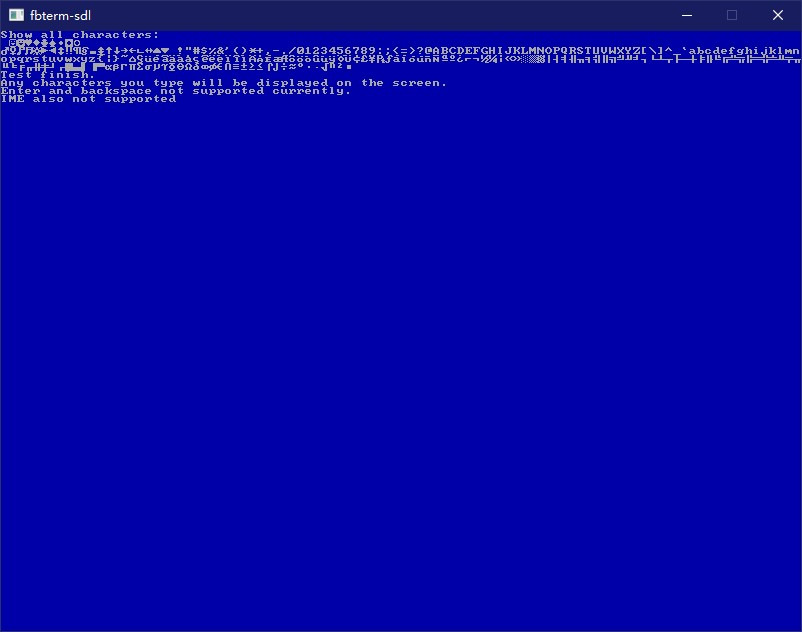
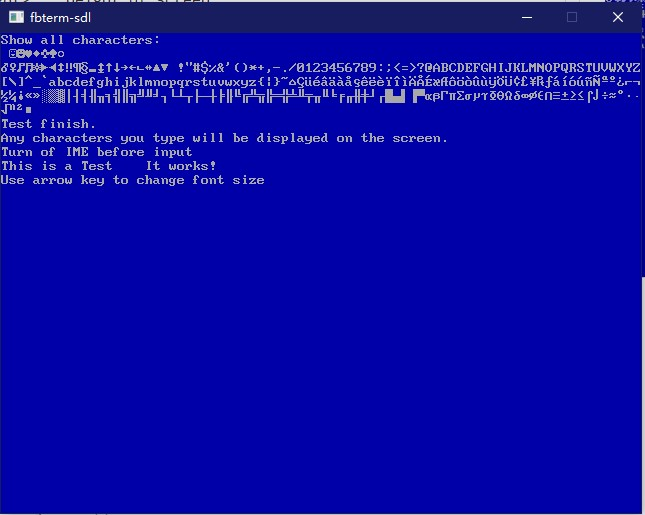
Support change font size; Support backspace

Changed region(s): [[0.0, 0.0, 1.0, 1.0]]

diff --git a/src/lib.rs b/src/lib.rs
@@ -19,8 +19,8 @@ pub struct Fbterm<'a, T: Pixel> {
 }
 
 impl<'a, T: Pixel> Fbterm<'a, T> {
-    pub fn new(framebuffer: Framebuffer<'a, T>, font: Fonts) -> Fbterm<'a, T> {
-        let font = Font::new(font);
+    pub fn new(framebuffer: Framebuffer<'a, T>, font_size: Fonts) -> Fbterm<'a, T> {
+        let font = Font::new(font_size);
         let height = framebuffer.height() / font.height();
         let width = framebuffer.width() / font.width();
         Fbterm {
@@ -45,6 +45,20 @@ impl<'a, T: Pixel> Fbterm<'a, T> {
                 self.x = 0;
                 self.y += 1;
             }
+            0x08 => {
+                if self.x > 0 {
+                    self.x -= 1;
+                    self.framebuffer.draw_rect(
+                        Rect::new(
+                            self.x * self.font.width(),
+                            self.y * self.font.height(),
+                            self.font.width(),
+                            self.font.height(),
+                        ),
+                        self.framebuffer.get_background(),
+                    )
+                }
+            }
             _ => {
                 let bitmap = self.font.char(c);
                 self.draw_font(bitmap);
@@ -65,6 +79,17 @@ impl<'a, T: Pixel> Fbterm<'a, T> {
         for c in s.bytes() {
             self.putc(c)
         }
+    }
+
+    pub fn get_font_size(&self) -> Fonts {
+        self.font.get_font_size()
+    }
+
+    pub fn set_font_size(&mut self, font: Fonts) {
+        self.font = Font::new(font);
+        self.height = self.framebuffer.height() / self.font.height();
+        self.width = self.framebuffer.width() / self.font.width();
+        self.clear();
     }
 
     fn draw_font(&mut self, bitmap: &'a [u8]) {

diff --git a/fbterm-sdl/main.rs b/fbterm-sdl/main.rs
@@ -84,8 +84,7 @@ fn main() {
         r"
 Test finish.
 Any characters you type will be displayed on the screen.
-Enter and backspace not supported currently.
-IME also not supported
+Turn of IME before input
 ",
     );
     texture.update(None, &frame_buffer, 4 * width).unwrap();
@@ -106,6 +105,27 @@ IME also not supported
                     canvas.clear();
                     canvas.copy(&texture, None, None).unwrap();
                     canvas.present();
+                }
+                Event::KeyDown {
+                    keycode: Some(key), ..
+                } => {
+                    match key {
+                        Keycode::Left => fbterm.set_font_size(Fonts::VGA8x8),
+                        Keycode::Down => fbterm.set_font_size(Fonts::VGA8x14),
+                        Keycode::Right => fbterm.set_font_size(Fonts::VGA8x16),
+                        Keycode::Backspace => fbterm.putc(0x08),
+                        Keycode::KpEnter | Keycode::Return => fbterm.putc(b'\n'),
+                        _ => {}
+                    }
+                    match key {
+                        Keycode::Left | Keycode::Down | Keycode::Right | Keycode::Backspace => {
+                            texture.update(None, &frame_buffer, 4 * width).unwrap();
+                            canvas.clear();
+                            canvas.copy(&texture, None, None).unwrap();
+                            canvas.present();
+                        }
+                        _ => {}
+                    }
                 }
                 _ => {}
             }

diff --git a/src/font.rs b/src/font.rs
@@ -1,6 +1,7 @@
 pub struct Font<'a> {
     buffer: &'a [u8],
     height: usize,
+    size: Fonts,
 }
 
 impl<'a> Font<'a> {
@@ -9,14 +10,17 @@ impl<'a> Font<'a> {
             Fonts::VGA8x8 => Font {
                 buffer: &VGAFONT8,
                 height: 8,
+                size: font,
             },
             Fonts::VGA8x14 => Font {
                 buffer: &VGAFONT14,
                 height: 14,
+                size: font,
             },
             Fonts::VGA8x16 => Font {
                 buffer: &VGAFONT16,
                 height: 16,
+                size: font,
             },
         }
     }
@@ -30,8 +34,12 @@ impl<'a> Font<'a> {
     pub fn height(&self) -> usize {
         self.height
     }
+    pub fn get_font_size(&self) -> Fonts {
+        self.size
+    }
 }
 
+#[derive(Clone, Copy)]
 pub enum Fonts {
     VGA8x8,
     VGA8x14,

diff --git a/src/fb.rs b/src/fb.rs
@@ -109,6 +109,10 @@ impl<'a, T: Pixel> Framebuffer<'a, T> {
     pub fn height(&self) -> usize {
         self.height
     }
+
+    pub fn get_base(&self)->*mut u8{
+        self.base
+    }
 }
 
 #[derive(Copy, Clone)]

diff --git a/README.md b/README.md
@@ -12,6 +12,8 @@ Build for no_std environment,such as operating system(without vga text mode) and
 
 SDL:
 
+Input characters and show them in SDL window.
+
 ```txt
 Fbterm test on SDL2
 
@@ -30,7 +32,7 @@ OPTIONS:
 
 ![sdl2](./doc/sdl2.jpg)
 
-[My OS](https://github.com/12101111/os) 
+[My OS](https://github.com/12101111/os)
 
 After exiting UEFI boot service, program can't use Simple Text Output Protocal, but can use existing UEFI framebuffer.My OS use this crate to print texts.
 
@@ -44,8 +46,7 @@ Code page: 437 ,also known as CP437, OEM-US, OEM 437, PC-8, or DOS Latin US
 
 ## Todo
 
-Custom font support
-
-Unicode map support
-
-Framebuffer resize, font resize
+    Custom font
+    Unicode map
+    Buffer line
+    Cursor
